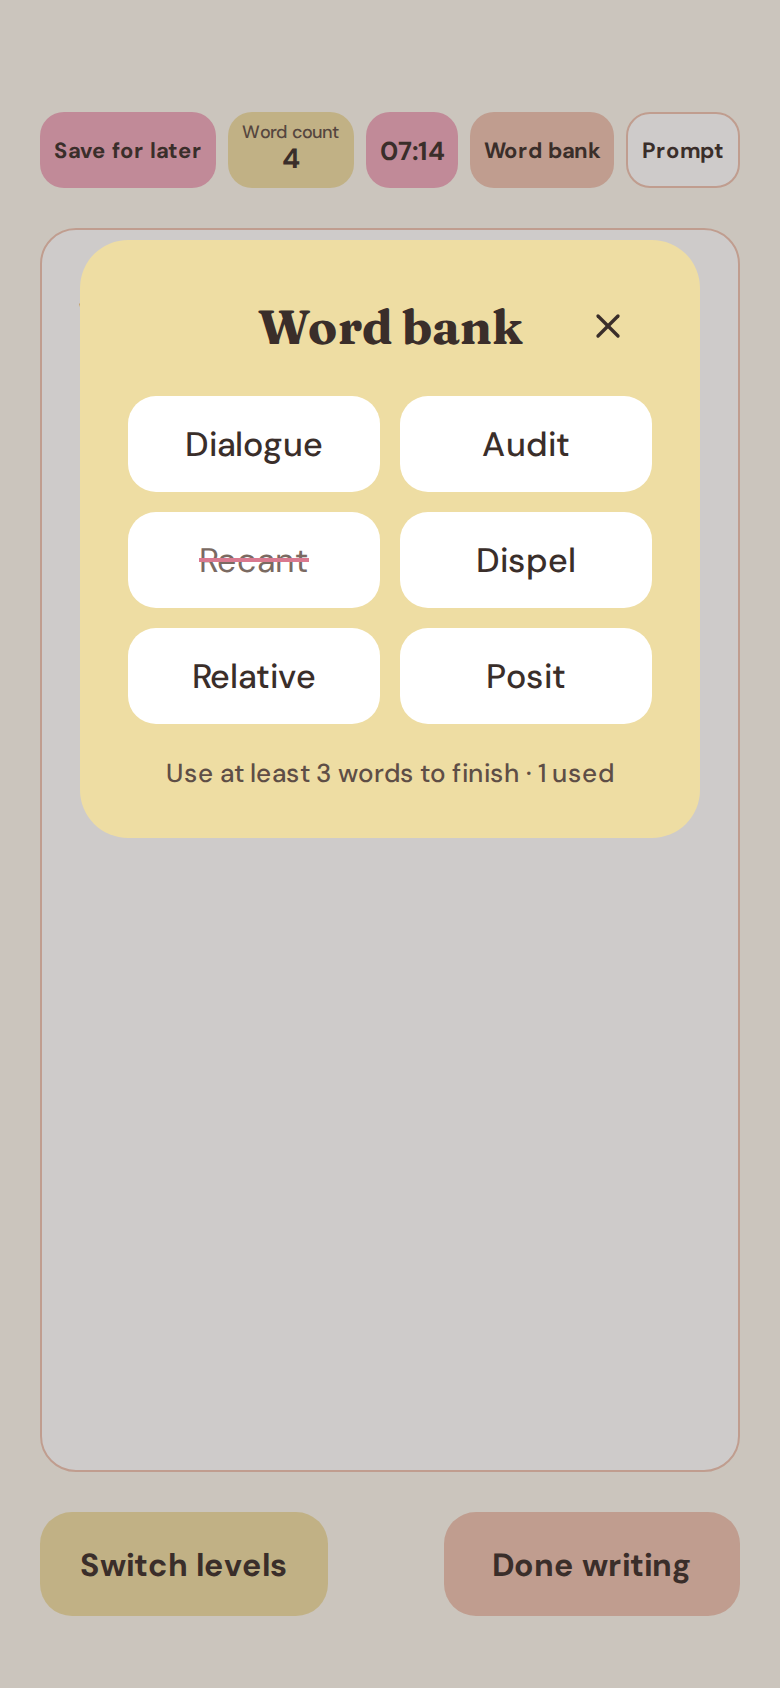
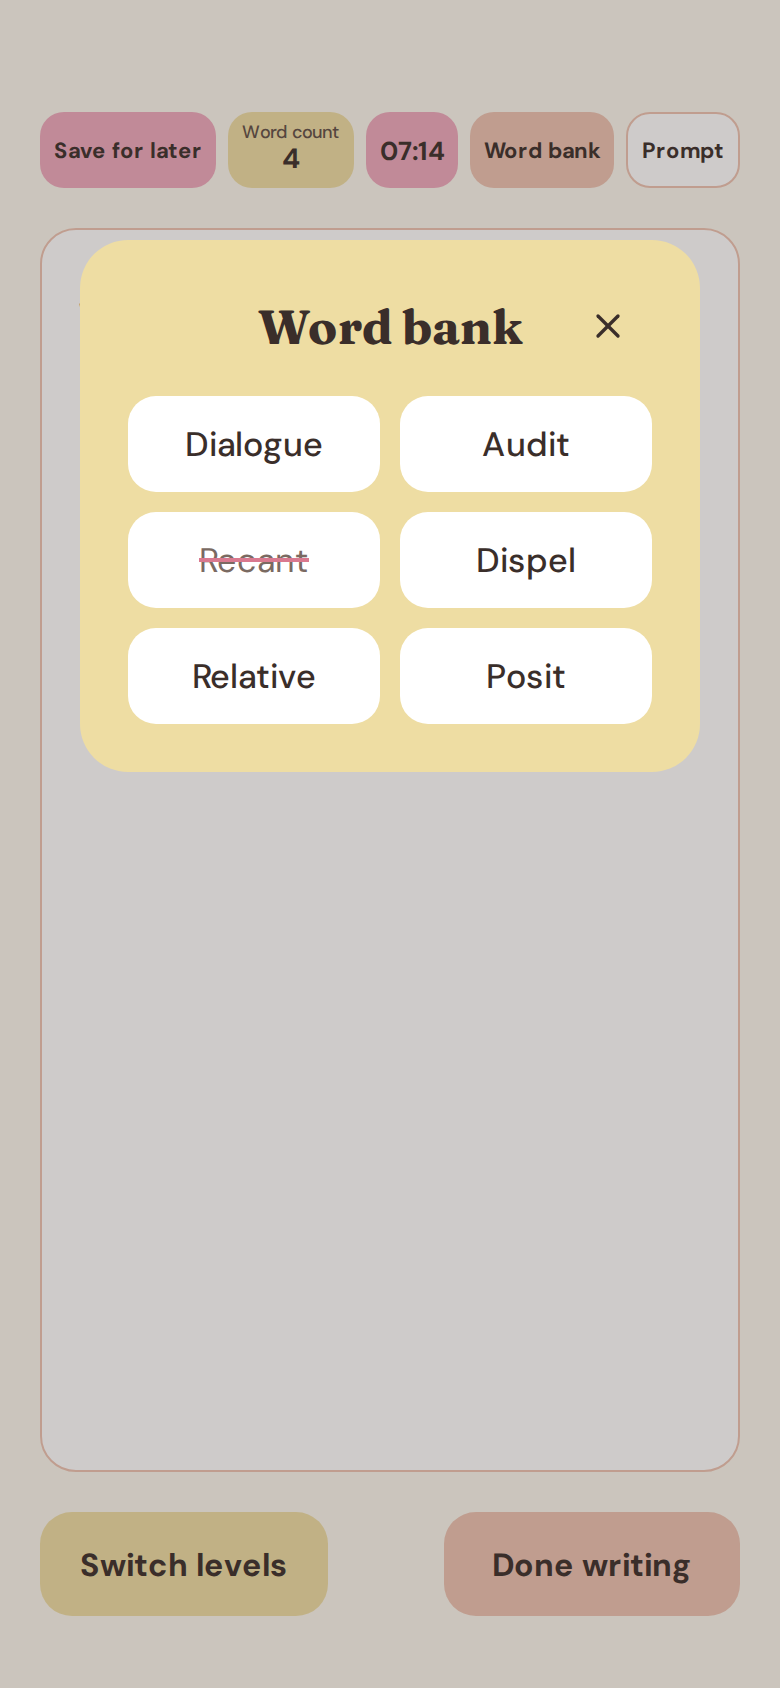
Remove screens and extras that haven't been designed yet

Changed region(s): [[0.0923, 0.4313, 0.9231, 0.5237]]

diff --git a/app/app.js b/app/app.js
@@ -2,7 +2,7 @@
 // Writing Prompt App
 // One page with several screens. The part after # in the address decides
 // which screen shows: #onboarding, #home, #choose, #prompt, #write, #done,
-// #profile, #entries, #entry/3, #stats.
+// #profile, #entries, #stats.
 // Everything is saved in this phone's browser (localStorage).
 // =====================================================================
 (function () {
@@ -114,7 +114,7 @@
   const screens = {
     onboarding: renderOnboarding, home: renderHome, choose: renderChoose, prompt: renderPrompt,
     write: renderWrite, done: function () {}, profile: renderProfile, entries: renderEntries,
-    entry: renderEntry, stats: renderStats
+    stats: renderStats
   };
   function route() {
     const parts = (location.hash || '#home').slice(1).split('/');
@@ -171,7 +171,6 @@
     const p = Object.assign(getProfile() || {}, { goal: ob.goal.trim(), topics: ob.topics.slice(), helpers: ob.helpers.slice() });
     save(KEYS.profile, p);
     ob.step = 1; ob.loaded = false;
-    toast(first ? 'Welcome! Your answers are saved.' : 'Your answers are updated.');
     go(first ? 'home' : 'profile');
   });
 
@@ -182,27 +181,19 @@
 
     const hasDraft = Boolean(state.prompt);
     const daily = $('#daily-btn');
-    daily.textContent = hasDraft ? 'Continue saved entry' : 'Complete daily challenge';
     daily.setAttribute('href', hasDraft ? '#write' : '#choose');
     $('#write-tab').setAttribute('href', hasDraft ? '#write' : '#choose');
 
     const list = $('#recent-list');
-    const recent = entries.map((e, i) => ({ e, i })).slice(-3).reverse();
+    const recent = entries.map((e) => ({ e })).slice(-3).reverse();
     list.innerHTML = recent.length
-      ? recent.map(({ e, i }) => '<a class="recent-row" href="#entry/' + i + '"><span>' + escapeHtml(dateLabel(e.date)) + '</span><span aria-hidden="true">›</span></a>').join('')
-      : '<p class="hint">Your entries will show up here after you finish your first challenge.</p>';
+      ? recent.map(({ e }) => '<div class="recent-row"><span>' + escapeHtml(dateLabel(e.date)) + '</span><span aria-hidden="true">›</span></div>').join('')
+      : '';
   }
-  $$('[data-soon]').forEach((b) => b.addEventListener('click', () => toast('Coming soon!')));
 
   // ===================== MAKE A CHOICE =====================
   function renderChoose() {
     $$('.opt').forEach((b) => b.setAttribute('aria-pressed', String(state[b.dataset.group] === b.dataset.value)));
-    const L = LEVELS[state.level];
-    let hint = L.label + ': ' + L.bankSize + ' word bank words';
-    if (L.minWords) hint += ', at least ' + L.minWords + ' words';
-    if (L.minutes) hint += ', ' + L.minutes + ' minute timer';
-    $('#level-hint').textContent = hint + '.';
-    $('#start-btn').textContent = state.text ? 'Back to writing' : 'Start writing';
   }
   $$('.opt').forEach((b) => b.addEventListener('click', () => { state[b.dataset.group] = b.dataset.value; renderChoose(); }));
   $('#start-btn').addEventListener('click', () => {
@@ -222,7 +213,6 @@
     $('#prompt-text').textContent = state.prompt;
     const left = respinsLeft();
     $('#respin-btn').disabled = left <= 0;
-    $('#respins-left').textContent = left + (left === 1 ? ' re-spin' : ' re-spins') + ' left today';
   }
   $('#respin-btn').addEventListener('click', () => {
     const left = respinsLeft();
@@ -239,10 +229,6 @@
     const wc = countWords(state.text);
     $('#word-count').textContent = wc;
     $('#highlights').innerHTML = underlineWords(state.text, state.words) + '\n';
-    let goal = 'Use at least ' + MIN_BANK_WORDS_USED + ' word bank words · ' + usedWords().length + ' used';
-    const min = LEVELS[state.level].minWords;
-    if (min) goal += ' · ' + wc + '/' + min + ' words';
-    $('#goal-line').textContent = goal;
   }
   function renderWrite() {
     if (story.value !== state.text) story.value = state.text;
@@ -275,7 +261,7 @@
   }
   function stopTicker() { clearInterval(tickId); tickId = null; if (state.prompt) saveDraft(); }
 
-  $('#save-later').addEventListener('click', () => { saveDraft(); toast('Saved! You can finish it later.'); go('home'); });
+  $('#save-later').addEventListener('click', () => { saveDraft(); go('home'); });
 
   $('#done-btn').addEventListener('click', () => {
     const wc = countWords(state.text);
@@ -332,7 +318,7 @@
       c.getContext('2d').drawImage(img, (size - w) / 2, (size - h) / 2, w, h);
       const p = getProfile() || {};
       p.photo = c.toDataURL('image/jpeg', 0.85);
-      if (save(KEYS.profile, p)) { toast('Picture updated!'); renderProfile(); } else toast('That picture is too big to save.');
+      if (save(KEYS.profile, p)) renderProfile();
       URL.revokeObjectURL(img.src);
     };
     img.src = URL.createObjectURL(file);
@@ -342,19 +328,15 @@
   // ===================== SEE PAST ENTRIES =====================
   let sortBy = 'date';
   const LEVEL_ORDER = { easy: 0, medium: 1, hard: 2 };
-  function renderEntries(arg) {
-    const favoritesOnly = arg === 'favorites';
+  function renderEntries() {
     let list = getEntries().map((e, i) => ({ e, i }));
-    if (favoritesOnly) list = list.filter(({ e }) => e.favorite);
     if (sortBy === 'date') list.sort((a, b) => b.i - a.i);
     if (sortBy === 'mode') list.sort((a, b) => LEVEL_ORDER[a.e.level] - LEVEL_ORDER[b.e.level] || b.i - a.i);
     if (sortBy === 'words') list.sort((a, b) => b.e.wordCount - a.e.wordCount);
-    $('#entries-title').textContent = favoritesOnly ? 'Favorite Entries' : 'See past Entries';
     $$('#sort-menu button').forEach((b) => b.setAttribute('aria-checked', String(b.dataset.sort === sortBy)));
-    $('#entries-sub').textContent = list.length ? '' : (favoritesOnly ? 'Tap ♡ Favorite on an entry to save it here.' : 'No entries yet. Finish a challenge to see it here.');
-    $('#entry-grid').innerHTML = list.map(({ e, i }) =>
-      '<a class="entry-card" href="#entry/' + i + '"><span class="preview">' + escapeHtml(e.text.slice(0, 160)) +
-      '</span><span class="date">' + escapeHtml(dateLabel(e.date)) + '</span></a>').join('');
+    $('#entry-grid').innerHTML = list.map(({ e }) =>
+      '<div class="entry-card"><span class="preview">' + escapeHtml(e.text.slice(0, 160)) +
+      '</span><span class="date">' + escapeHtml(dateLabel(e.date)) + '</span></div>').join('');
   }
   $('#sort-btn').addEventListener('click', () => {
     const m = $('#sort-menu'); m.hidden = !m.hidden;
@@ -363,30 +345,8 @@
   $$('#sort-menu button').forEach((b) => b.addEventListener('click', () => {
     sortBy = b.dataset.sort;
     $('#sort-menu').hidden = true;
-    renderEntries((location.hash.split('/')[1]) || '');
+    renderEntries();
   }));
-
-  // ===================== ONE ENTRY =====================
-  let openEntry = -1;
-  function renderEntry(arg) {
-    const entries = getEntries();
-    openEntry = Number(arg);
-    const e = entries[openEntry];
-    if (!e) { go('entries'); return; }
-    $('#entry-date').textContent = dateLabel(e.date);
-    $('#entry-meta').textContent = LEVELS[e.level].label + ' · ' + e.wordCount + ' words · ' + e.minutes + ' min · used ' + e.usedWords.join(', ');
-    $('#entry-prompt').textContent = e.prompt;
-    $('#entry-text').innerHTML = underlineWords(e.text, e.words);
-    $('#fav-btn').setAttribute('aria-pressed', String(Boolean(e.favorite)));
-    $('#fav-btn').textContent = e.favorite ? '♥ Favorite' : '♡ Favorite';
-  }
-  $('#fav-btn').addEventListener('click', () => {
-    const entries = getEntries();
-    if (!entries[openEntry]) return;
-    entries[openEntry].favorite = !entries[openEntry].favorite;
-    save(KEYS.entries, entries);
-    renderEntry(openEntry);
-  });
 
   // ===================== WRITING STATS =====================
   function renderStats() {
@@ -394,7 +354,7 @@
     const counts = { easy: 0, medium: 0, hard: 0 };
     entries.forEach((e) => { counts[e.level]++; });
     const top = Object.keys(counts).sort((a, b) => counts[b] - counts[a])[0];
-    $('#s-mode').textContent = entries.length ? LEVELS[top].label + ' ›' : 'None yet';
+    $('#s-mode').textContent = entries.length ? LEVELS[top].label : '';
     const weekAgo = new Date(); weekAgo.setDate(weekAgo.getDate() - 6);
     const since = dayKey(weekAgo);
     $('#s-minutes').textContent = entries.filter((e) => e.date >= since).reduce((sum, e) => sum + (e.minutes || 0), 0);
@@ -409,7 +369,6 @@
     const used = usedWords();
     $('#word-grid').innerHTML = state.words.map((w) =>
       '<button class="word' + (used.includes(w) ? ' used' : '') + '" data-word="' + escapeHtml(w) + '" aria-pressed="' + (w === selected) + '">' + escapeHtml(w) + '</button>').join('');
-    $('#bank-hint').textContent = 'Tap a word to see what it means · ' + used.length + ' of ' + MIN_BANK_WORDS_USED + ' used';
   }
   $('#bank-btn').addEventListener('click', () => {
     renderBank(null);
@@ -445,7 +404,6 @@
       ? '<b>' + escapeHtml(word) + '</b> <i>' + escapeHtml(def.type) + '</i><p>' + escapeHtml(def.meaning) + '</p>'
       : '<b>' + escapeHtml(word) + '</b><p>No definition found. Try looking it up in a dictionary.</p>';
   });
-  $('#prompt-btn').addEventListener('click', () => { $('#popup-prompt').textContent = state.prompt; openPopup('#prompt-popup'); });
   $$('.overlay').forEach((o) => o.addEventListener('click', (e) => {
     if (e.target === o || e.target.closest('[data-close]')) { o.hidden = true; story.focus(); }
   }));

diff --git a/app/index.html b/app/index.html
@@ -67,11 +67,11 @@
     </div>
 
     <div class="tiles">
-      <button class="tile bg-pink" data-soon>
+      <button class="tile bg-pink">
         <svg viewBox="0 0 24 24" aria-hidden="true"><circle cx="12" cy="12" r="9"/><path d="M15.5 8.5l-2 5-5 2 2-5z"/></svg>
         Explore prompts
       </button>
-      <button class="tile bg-orange" data-soon>
+      <button class="tile bg-orange">
         <svg viewBox="0 0 24 24" aria-hidden="true"><rect x="3" y="5" width="18" height="16" rx="2"/><path d="M3 10h18M8 3v4M16 3v4"/></svg>
         Memories
       </button>
@@ -106,7 +106,6 @@
     </div>
 
     <div class="group">
-      <h2 class="label">Prompt</h2>
       <div class="opts cols-2">
         <button class="opt tall" data-group="promptType" data-value="normal" data-color="orange">Normal prompt</button>
         <button class="opt tall" data-group="promptType" data-value="challenge" data-color="pink">Challenge mode prompt</button>
@@ -114,7 +113,6 @@
     </div>
 
     <div class="group">
-      <h2 class="label">Word bank</h2>
       <div class="opts cols-3">
         <button class="opt tall" data-group="bank" data-value="easy" data-color="yellow">Easy word bank</button>
         <button class="opt tall" data-group="bank" data-value="medium" data-color="orange">Medium word bank</button>
@@ -122,7 +120,6 @@
       </div>
     </div>
 
-    <p class="hint center" id="level-hint"></p>
     <button class="btn bg-yellow push-down self-center" id="start-btn">Start writing</button>
   </section>
 
@@ -134,7 +131,6 @@
       <button class="btn bg-orange grow" id="respin-btn">Re-spin prompt</button>
       <button class="btn bg-pink grow" id="continue-btn">Continue using prompt</button>
     </div>
-    <p class="hint center" id="respins-left"></p>
   </section>
 
   <!-- ===================== WRITE ===================== -->
@@ -151,7 +147,6 @@
       <div class="highlights" id="highlights" aria-hidden="true"></div>
       <textarea id="story" placeholder="Type here, start writing..." aria-label="Your story"></textarea>
     </div>
-    <p class="hint" id="goal-line"></p>
 
     <div class="row between">
       <a href="#choose" class="btn bg-yellow">Switch levels</a>
@@ -201,7 +196,7 @@
     <div class="trio">
       <a href="#entries" class="b-tile bg-orange"><span class="b-label">See past entries</span><span aria-hidden="true">›</span></a>
       <div class="b-tile bg-pink"><span class="b-big md" id="p-words">0</span><span class="b-label">words typed</span></div>
-      <a href="#entries/favorites" class="b-tile bg-yellow"><span class="b-label">Favorite entries</span><span aria-hidden="true">›</span></a>
+      <div class="b-tile bg-yellow"><span class="b-label">Favorite entries</span><span aria-hidden="true">›</span></div>
     </div>
   </section>
 
@@ -219,28 +214,15 @@
       </div>
     </div>
     <h1 class="title center" id="entries-title">See past Entries</h1>
-    <p class="hint center" id="entries-sub"></p>
     <div class="entry-grid" id="entry-grid"></div>
     <a href="#stats" class="btn bg-pink push-down self-end">Writing stats</a>
-  </section>
-
-  <!-- ===================== ONE ENTRY ===================== -->
-  <section class="screen" data-screen="entry" hidden>
-    <div class="row between">
-      <a href="#entries" class="back">‹ go back</a>
-      <button class="link-btn fav" id="fav-btn" aria-pressed="false">♡ Favorite</button>
-    </div>
-    <h1 class="title" id="entry-date"></h1>
-    <p class="hint" id="entry-meta"></p>
-    <div class="card bg-orange entry-prompt" id="entry-prompt"></div>
-    <div class="entry-text" id="entry-text"></div>
   </section>
 
   <!-- ===================== WRITING STATS ===================== -->
   <section class="screen" data-screen="stats" hidden>
     <h1 class="title center stats-title">Writing stats</h1>
     <div class="stat-row"><span>Most used mode</span><b id="s-mode">None yet</b></div>
-    <div class="stat-row"><span>This week's ratings</span><b id="s-ratings">Coming soon</b></div>
+    <div class="stat-row"><span>This week's ratings</span><b id="s-ratings"></b></div>
     <div class="card bg-pink stat-card"><span class="b-big lg" id="s-minutes">0</span><span class="b-label">minutes writing this week</span></div>
     <div class="card bg-yellow stat-card"><span class="b-big lg" id="s-longest">0 days</span><span class="b-label">longest streak</span></div>
     <a href="#entries" class="btn bg-orange push-down self-start">‹ go back</a>
@@ -258,19 +240,6 @@
     </div>
     <div class="word-grid" id="word-grid"></div>
     <div class="word-def" id="word-def" aria-live="polite" hidden></div>
-    <p class="hint center" id="bank-hint"></p>
-  </div>
-</div>
-
-<!-- PROMPT POPUP -->
-<div class="overlay" id="prompt-popup" hidden>
-  <div class="popup bg-orange" role="dialog" aria-modal="true" aria-labelledby="prompt-popup-title">
-    <div class="popup-head">
-      <span></span>
-      <h2 id="prompt-popup-title">Prompt</h2>
-      <button class="close" data-close aria-label="Close prompt">×</button>
-    </div>
-    <p class="popup-prompt" id="popup-prompt"></p>
   </div>
 </div>
 

diff --git a/app/styles.css b/app/styles.css
@@ -87,7 +87,6 @@ button { font: inherit; color: var(--ink); cursor: pointer; }
 .opt { min-height: 48px; padding: 4px 8px; border: 2.5px solid var(--c); border-radius: 14px; background: var(--white); font-size: 15px; font-weight: 600; line-height: 1.2; }
 .opt.tall { min-height: 64px; }
 .opt[aria-pressed="true"] { background: var(--c); }
-.opt[aria-pressed="true"]::before { content: "✓ "; }
 .opt[data-color="yellow"] { --c: var(--yellow); }
 .opt[data-color="orange"] { --c: var(--orange); }
 .opt[data-color="pink"] { --c: var(--pink); }
@@ -178,7 +177,6 @@ a.tile { text-decoration: none; }
 .menu-wrap { position: relative; }
 .menu { position: absolute; right: 0; top: 46px; width: 168px; border-radius: 14px; overflow: hidden; box-shadow: 0 6px 20px rgba(58, 46, 42, 0.18); z-index: 5; display: flex; flex-direction: column; }
 .menu button { min-height: 44px; border: none; text-align: left; padding: 0 14px; font-size: 15px; font-weight: 600; }
-.menu button[aria-checked="true"]::after { content: " ✓"; }
 .entry-grid { display: grid; grid-template-columns: repeat(3, minmax(0, 1fr)); gap: 12px; }
 .entry-card { display: flex; flex-direction: column; border-radius: 14px; overflow: hidden; background: #fffdf6; border: 1.5px solid #e8dfc8; text-decoration: none; }
 .entry-card .preview { height: 110px; padding: 10px; font-size: 10px; line-height: 1.4; color: var(--muted); overflow: hidden; }

diff --git a/screens/write-word-bank-open.html b/screens/write-word-bank-open.html
@@ -38,7 +38,6 @@ a{color:#3A2E2A}a:hover{color:#000}
 <div style="height: 48px; border-radius: 14px; background: #ffffff; display: flex; align-items: center; justify-content: center; font-size: 17px; font-weight: 500">Relative</div>
 <div style="height: 48px; border-radius: 14px; background: #ffffff; display: flex; align-items: center; justify-content: center; font-size: 17px; font-weight: 500">Posit</div>
 </div>
-<div style="font-size: 13px; font-weight: 500; color: #5E4E46; text-align: center">Use at least 3 words to finish · 1 used</div>
 </div>
 </div>
 </body>

diff --git a/README.md b/README.md
@@ -8,20 +8,19 @@ To try the screens, open `index.html` in a browser (or turn on GitHub Pages for 
 
 Try it here: **https://laurenlliu.github.io/writing-prompt-app/app/** (open it on a phone).
 
-What works so far (the whole flow):
+What works so far (only the screens she has drawn):
 
-- **Onboarding** the first time you open it: your goal, topics and how the app helps you. You can change the answers later from your profile.
-- **Home** shows your real streak and recent entries. Tap an entry to read it.
+- **Onboarding** the first time you open it. You can change the answers later from your profile.
+- **Home** shows your real streak and recent entries.
 - **Make a choice → Prompt (3 re-spins a day) → Write → Congrats.**
-- The **Write** screen counts your words, underlines word bank words as you use them, and crosses them out in the word bank. Tap any word in the word bank to see what it means. Hard mode has a 10 minute timer. Medium and Hard have a word count minimum.
-- **Done writing** checks that you used at least 3 word bank words, then saves your entry.
-- **Save for later** keeps your story, and the home screen lets you continue it.
-- **Profile:** change your picture (upload a photo), current vs. longest streak, entries written, status (Novice, Wordsmith at 5 entries, Storyteller at 15), levels done, words typed, past entries and favorites.
-- **See past entries** with Organize by date, mode or word count. Open an entry to read it and mark it as a favorite.
-- **Writing stats:** most used mode, minutes writing this week and longest streak.
+- The **Write** screen counts your words and underlines word bank words as you use them. In the word bank, used words are crossed out, and tapping a word shows what it means. Hard mode has a 10 minute timer.
+- **Done writing** checks that you used at least 3 word bank words (and the word minimum on Medium and Hard), then saves your entry.
+- **Save for later** keeps your story, and Complete daily challenge takes you back to it.
+- **Profile:** change your picture, change your onboarding answers, streaks, entries written, status, levels done and words typed.
+- **See past entries** with Organize by date, mode or word count, and **Writing stats**.
 - Everything is saved on the phone you use, so nothing needs an account yet.
 
-Not built yet: Explore prompts, Memories, this week's ratings, and drawn profile icons.
+Buttons that don't do anything yet because they haven't been designed: Explore prompts, Memories, Favorite entries, the Prompt button on the Write screen, tapping an old entry, and this week's ratings.
 
 Files in `app/`:
 
